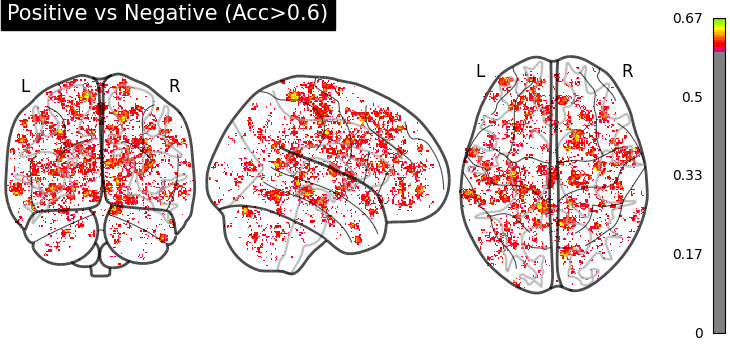
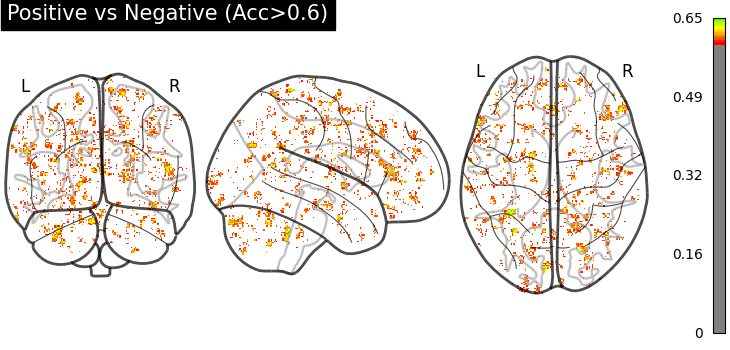
change to subject 0117

diff --git a/src/searchlight/prep.py b/src/searchlight/prep.py
@@ -104,11 +104,13 @@ def create_bmaps(events, trial_dms, models, data_path):
     return b_maps, conditions_label
 
 def main():
+    subject = "0117"
+
     # define paths 
     path = pathlib.Path(__file__)
     data_path = path.parents[2] / "data"
     bids_path = data_path / "InSpePosNegData" / "BIDS_2023E"
-    fprep_f_paths, event_paths, confounds_paths, mask_paths = get_paths(bids_path, "0116", n_runs=6)
+    fprep_f_paths, event_paths, confounds_paths, mask_paths = get_paths(bids_path, subject, n_runs=6)
     
     # load flms, events and confounds
     flms = load_all_flms(data_path / "all_flms")

diff --git a/src/searchlight/plot.py b/src/searchlight/plot.py
@@ -46,7 +46,7 @@ def plot_most_important_voxels(anat_filename, searchlight_scores, results_path, 
     plot.savefig(results_path / "searchlight_topvoxels.png")
 
 def main():
-    subject = "0116"
+    subject = "0117"
 
     # define paths 
     path = pathlib.Path(__file__)

diff --git a/src/searchlight/permutation.py b/src/searchlight/permutation.py
@@ -83,7 +83,7 @@ def do_permutation(process_mask_img, fmri_img_test, conditions_test, data_path):
 
 
 def main(): 
-    subject = "0116"
+    subject = "0117"
 
     # define paths 
     path = pathlib.Path(__file__)

diff --git a/src/searchlight/train.py b/src/searchlight/train.py
@@ -112,7 +112,7 @@ def run_searchlight(mask_img, fmri_img_train, conditions_train, data_path, filen
 
 
 def main(): 
-    subject = "0116"
+    subject = "0117"
     np.random.seed(2502)
     
     # define paths 
